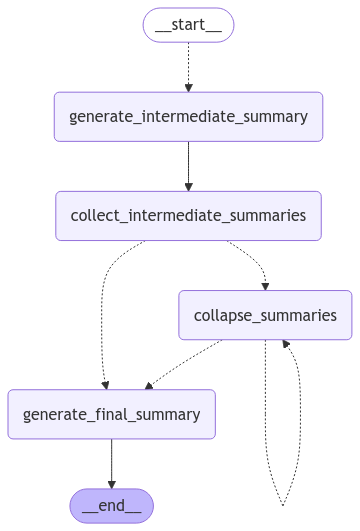
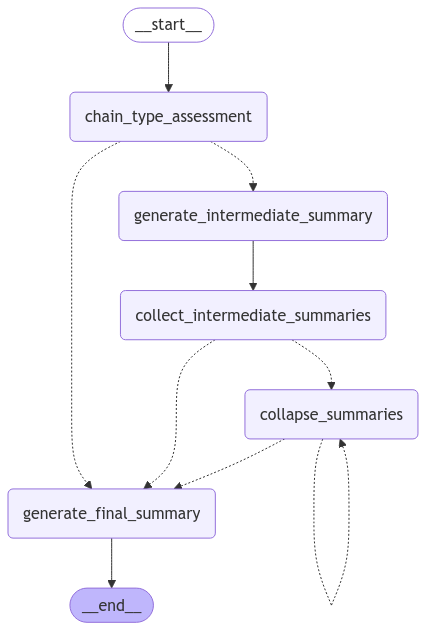
Implemented Condition Summary Generation

diff --git a/summary_graph/summ_graph_builder.py b/summary_graph/summ_graph_builder.py
@@ -8,7 +8,8 @@ from summary_graph.summary_consts import (
     GENERATE_FINAL_SUMMARY, 
     GENERATE_INTERMEDIATE_SUMMARY,
     COLLECT_SUMMARIES,
-    COLLAPSE_SUMMARIES
+    COLLAPSE_SUMMARIES,
+    CHAIN_TYPE_ASSESSMENT
 )
 from typing import Literal
 
@@ -17,7 +18,8 @@ from summary_graph.nodes import (
     generate_intermediate_summary_func, 
     generate_final_summary_func, 
     generate_collapse_summary_func, 
-    collect_summaries
+    collect_summaries,
+    assess_chain_type_func
 )
 
 
@@ -26,16 +28,21 @@ async def summary_generation_langgraph(file_contents, summary_type: str, file: U
 
     builder = StateGraph(GraphOverallSummaryState)
 
+    builder.add_node(CHAIN_TYPE_ASSESSMENT, assess_chain_type_func)
     builder.add_node(GENERATE_INTERMEDIATE_SUMMARY, generate_intermediate_summary_func)
     builder.add_node(COLLECT_SUMMARIES, collect_summaries)
     builder.add_node(COLLAPSE_SUMMARIES, generate_collapse_summary_func)
     builder.add_node(GENERATE_FINAL_SUMMARY, generate_final_summary_func)
 
-    builder.add_conditional_edges(START,map_summaries,[GENERATE_INTERMEDIATE_SUMMARY])
+    builder.add_conditional_edges(CHAIN_TYPE_ASSESSMENT, map_summaries, [GENERATE_INTERMEDIATE_SUMMARY, GENERATE_FINAL_SUMMARY])
+
+    # builder.add_conditional_edges(START,map_summaries,[GENERATE_INTERMEDIATE_SUMMARY])
     builder.add_edge(GENERATE_INTERMEDIATE_SUMMARY, COLLECT_SUMMARIES)
     builder.add_conditional_edges(COLLECT_SUMMARIES,summary_decision_func)
     builder.add_conditional_edges(COLLAPSE_SUMMARIES,summary_decision_func)
     builder.add_edge(GENERATE_FINAL_SUMMARY, END)
+
+    builder.set_entry_point(CHAIN_TYPE_ASSESSMENT)
 
 
     graph = builder.compile()
@@ -49,7 +56,7 @@ async def summary_generation_langgraph(file_contents, summary_type: str, file: U
 
     chunked_docs = parsed_docs_result["documents_from_splitted_texts"]
 
-    async for event in graph.astream_events({"summary_type": summary_type, "contents": [item.page_content for item in chunked_docs]}, version='v2'):
+    async for event in graph.astream_events({"summary_type": summary_type, "contents": [item.page_content for item in chunked_docs], "contents_in_doc_format": chunked_docs}, version='v2'):
         sources_tags = ["seq:step:2", "final_reduce_chain"]
 
         if  all(val in event["tags"] for val in sources_tags) and  event["event"] == "on_chat_model_stream":

diff --git a/summary_graph/nodes/intermediate_summary_generator.py b/summary_graph/nodes/intermediate_summary_generator.py
@@ -1,7 +1,7 @@
 from summary_graph.summary_state import GraphIndividualSummaryState, GraphOverallSummaryState
 from summary_graph.chains.map_chain import map_summaries_chain
 from langgraph.constants import Send
-from summary_graph.summary_consts import GENERATE_INTERMEDIATE_SUMMARY
+from summary_graph.summary_consts import GENERATE_INTERMEDIATE_SUMMARY, GENERATE_FINAL_SUMMARY
 
 
 async def generate_intermediate_summary_func(state: GraphIndividualSummaryState):
@@ -10,6 +10,11 @@ async def generate_intermediate_summary_func(state: GraphIndividualSummaryState)
 
 
 def map_summaries(state: GraphOverallSummaryState):
-    return [
-        Send(GENERATE_INTERMEDIATE_SUMMARY, {"content": content}) for content in state["contents"]
-    ]
+    if (state["chain_type"] == "map_reduce"):
+        return [
+            Send(GENERATE_INTERMEDIATE_SUMMARY, {"content": content}) for content in state["contents"]
+        ]
+    else:
+        return [
+            GENERATE_FINAL_SUMMARY
+        ]

diff --git a/summary_graph/nodes/final_summary_generator.py b/summary_graph/nodes/final_summary_generator.py
@@ -4,6 +4,10 @@ from typing import List
 from langchain.schema import Document
 
 async def generate_final_summary_func(state: GraphOverallSummaryState):
-    collapsed_summaries: List[Document] = state['collapsed_summaries']
-    response = await final_reduce_chain.ainvoke({'summary_type': state['summary_type'], 'docs' : [item.page_content for item in collapsed_summaries]})
+    final_collected_summaries: List[Document] = []
+    if state['chain_type'] == "map_reduce":
+        final_collected_summaries = state['collapsed_summaries']
+    else:
+        final_collected_summaries = state['contents_in_doc_format']
+    response = await final_reduce_chain.ainvoke({'summary_type': state['summary_type'], 'docs' : [item.page_content for item in final_collected_summaries]})
     return {"final_summary": response}

diff --git a/summary_graph/nodes/__init__.py b/summary_graph/nodes/__init__.py
@@ -1,9 +1,11 @@
 from summary_graph.nodes.intermediate_summary_generator import generate_intermediate_summary_func, map_summaries
 from summary_graph.nodes.final_summary_generator import generate_final_summary_func
 from summary_graph.nodes.collapse_summary_generator import generate_collapse_summary_func, collect_summaries
+from summary_graph.nodes.assess_chain_type import assess_chain_type_func
 
 __all__ = ['generate_intermediate_summary_func', 
            'map_summaries', 
            'generate_final_summary_func', 
            'generate_collapse_summary_func',
-           'collect_summaries' ]
+           'collect_summaries',
+           'assess_chain_type_func' ]

diff --git a/summary_graph/nodes/assess_chain_type.py b/summary_graph/nodes/assess_chain_type.py
@@ -1,0 +1,13 @@
+from summary_graph.summary_state import GraphOverallSummaryState
+from common_utilities import calc_max_token_cnt
+
+
+async def assess_chain_type_func(state: GraphOverallSummaryState):
+    token_cnt = calc_max_token_cnt(state['contents_in_doc_format'])
+    chain_type=''
+    if token_cnt > 3000:
+        chain_type='map_reduce'
+    else:
+        chain_type='stuff'
+    
+    return {"chain_type": chain_type}

diff --git a/summary_graph/summary_state.py b/summary_graph/summary_state.py
@@ -4,8 +4,10 @@ from langchain.schema import Document
 
 
 class GraphOverallSummaryState(TypedDict):
+    chain_type: str
     summary_type: str
     contents: List[str]
+    contents_in_doc_format: List[Document]
     collapsed_summaries: List[Document]
     intermediate_summaries: Annotated[list, operator.add]
     final_summary: str

diff --git a/summary_graph/summary_consts.py b/summary_graph/summary_consts.py
@@ -2,3 +2,4 @@ GENERATE_INTERMEDIATE_SUMMARY="generate_intermediate_summary"
 GENERATE_FINAL_SUMMARY="generate_final_summary"
 COLLECT_SUMMARIES="collect_intermediate_summaries"
 COLLAPSE_SUMMARIES="collapse_summaries"
+CHAIN_TYPE_ASSESSMENT="chain_type_assessment"
